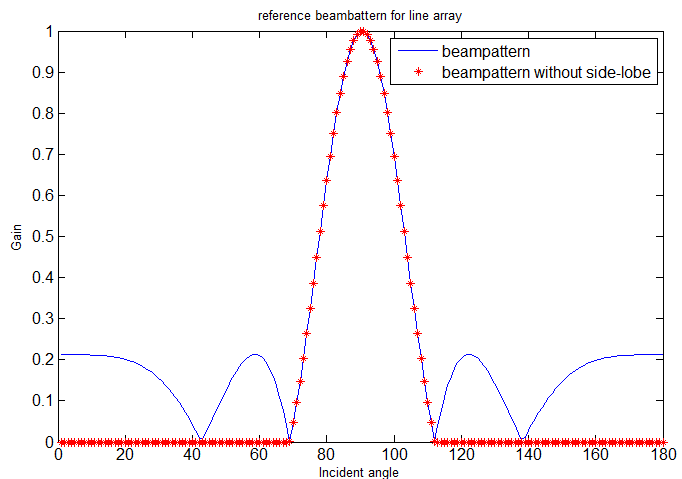
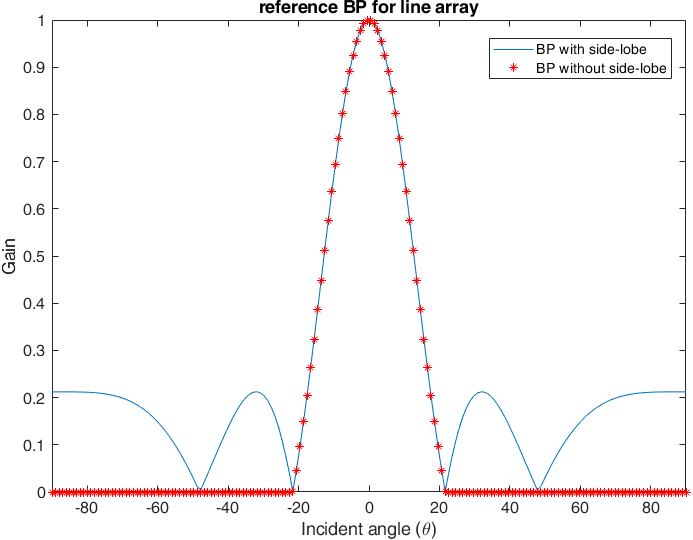
extend the frequency range

diff --git a/example4_1D_broadside.m b/example4_1D_broadside.m
@@ -2,22 +2,22 @@ clear;
 clc;
 Nfft = 256;               % FFT length used to implement FFT filterbank
 Nfh = Nfft/2+1;           % number of frequency points in [0,Fs/2]
-Fs = 24000;
+Fs = 48000;
 Fsh = Fs/2;
-fl = 2400;                 % lower and upper cutoff frequencies of filterbank
-fu = 12000;
+fl = 350;                 % lower and upper cutoff frequencies of filterbank
+fu = 20000;
 klow = round(fl/Fsh*Nfh);
 kup = round(fu/Fsh*Nfh);
 f = Fsh/Nfh*(klow:kup)';  % frequencies used to compute T and W
 Nf = length(f);
 N = 101;                   % number of microphone
-dH = 0.0282/8;            % minimum sensor distance in m
+dH = 0.01;            % minimum sensor distance in m
 gamma = 1;
 numCluster = 5;
 numPrsnt = 2;
 
 
-c = 340;                 % speed of sound in m/s
+c = 343.2;                 % speed of sound in m/s
 f_test = 2000;
 
 x_map = zeros(N,Nf);
@@ -39,16 +39,17 @@ BP_ML = zeros(1,length(BP));
 BP_ML(69:112) = BP(69:112); 
 figure();
 
-plot(abs(BP));
+plot(theta*180/pi,abs(BP));
 
 hold on 
-plot(abs(BP_ML),'*r');
+plot(theta*180/pi,abs(BP_ML),'*r');
 ylabel('Gain');
-xlabel('Incident angle');
+xlabel('Incident angle (\theta)');
 set(gcf,'color','w');
-legend('beampattern','beampattern without side-lobe');
-title('reference beambattern for line array')
+legend('BP with side-lobe','BP without side-lobe');
+title('reference BP for line array')
 set(gca,'FontSize', 12);
+axis tight
 BP = BP_ML;
 %%
 FI = zeros(Ntheta,Nf);
@@ -112,4 +113,22 @@ zlabel('Magnitude');
 grid on
 set(gcf,'color','w');
 
+figure()
+k_p = round((16000-fl)/Fsh*Nfh)+1;
+p = linspace(-pi, pi, 360);
+dBmin = -50;
+R_ref = abs([BP BP(end:-1:1)])';
+RdB = max(dBmin,20*log10(R_ref));
+polarplot(p,RdB','k'); 
 
+hold on
+
+R = abs([FI(end:-1:1,k_p);FI(:,k_p)]);
+RdB = max(dBmin,20*log10(R)) ;
+polarplot(p,RdB','--r'); 
+
+axis tight;
+%title(Plot_Title(iConfig));
+set(gca,'FontSize', 12);
+legend('expected BP','real BP');
+set(gcf,'color','w');

diff --git a/example2_2D_cone_step.m b/example2_2D_cone_step.m
@@ -14,7 +14,7 @@ kTOH = floor(fHigh/fStep);
 f = fStep*(kTUH:kTOH);       % frequencies used to compute W
 % Beamformer
 N = 100;
-n1 = -(N-1)/2:1:(N-1)/2;
+n1 = -N/2:1:(N-2)/2;
 n2 = n1;
 [n1,n2] = meshgrid(n1,n2);
 aux=sqrt(n1.^2+n2.^2);
@@ -66,12 +66,16 @@ for k=kTUH:kTOH
     Hd = filter2(LPW,Hd,'same');
 
      mesh(n1,n2,Hd)
-     axis off
+     %axis off
 
     h =fftshift(ifft2(rot90(fftshift(rot90(Hd,2)),2)));
+    
     h=h/sum(sum(h));
     W_2D(:,:,k-kTUH+1) = h;
     set(gcf,'color','w');
+    xlabel('u')
+    ylabel('v')
+    zlabel('gain')
  pause(0.05);
 end
 set(gcf,'color','w');
@@ -81,7 +85,7 @@ for iMic=1:N
       W((iMic-1)*N+jMic,:) = (W_2D(iMic,jMic,:));
    end
 end
-
+%%
 %verify the beam pattern ==================================================
 % Full array
 mics_ref = zeros(N*N,2);
